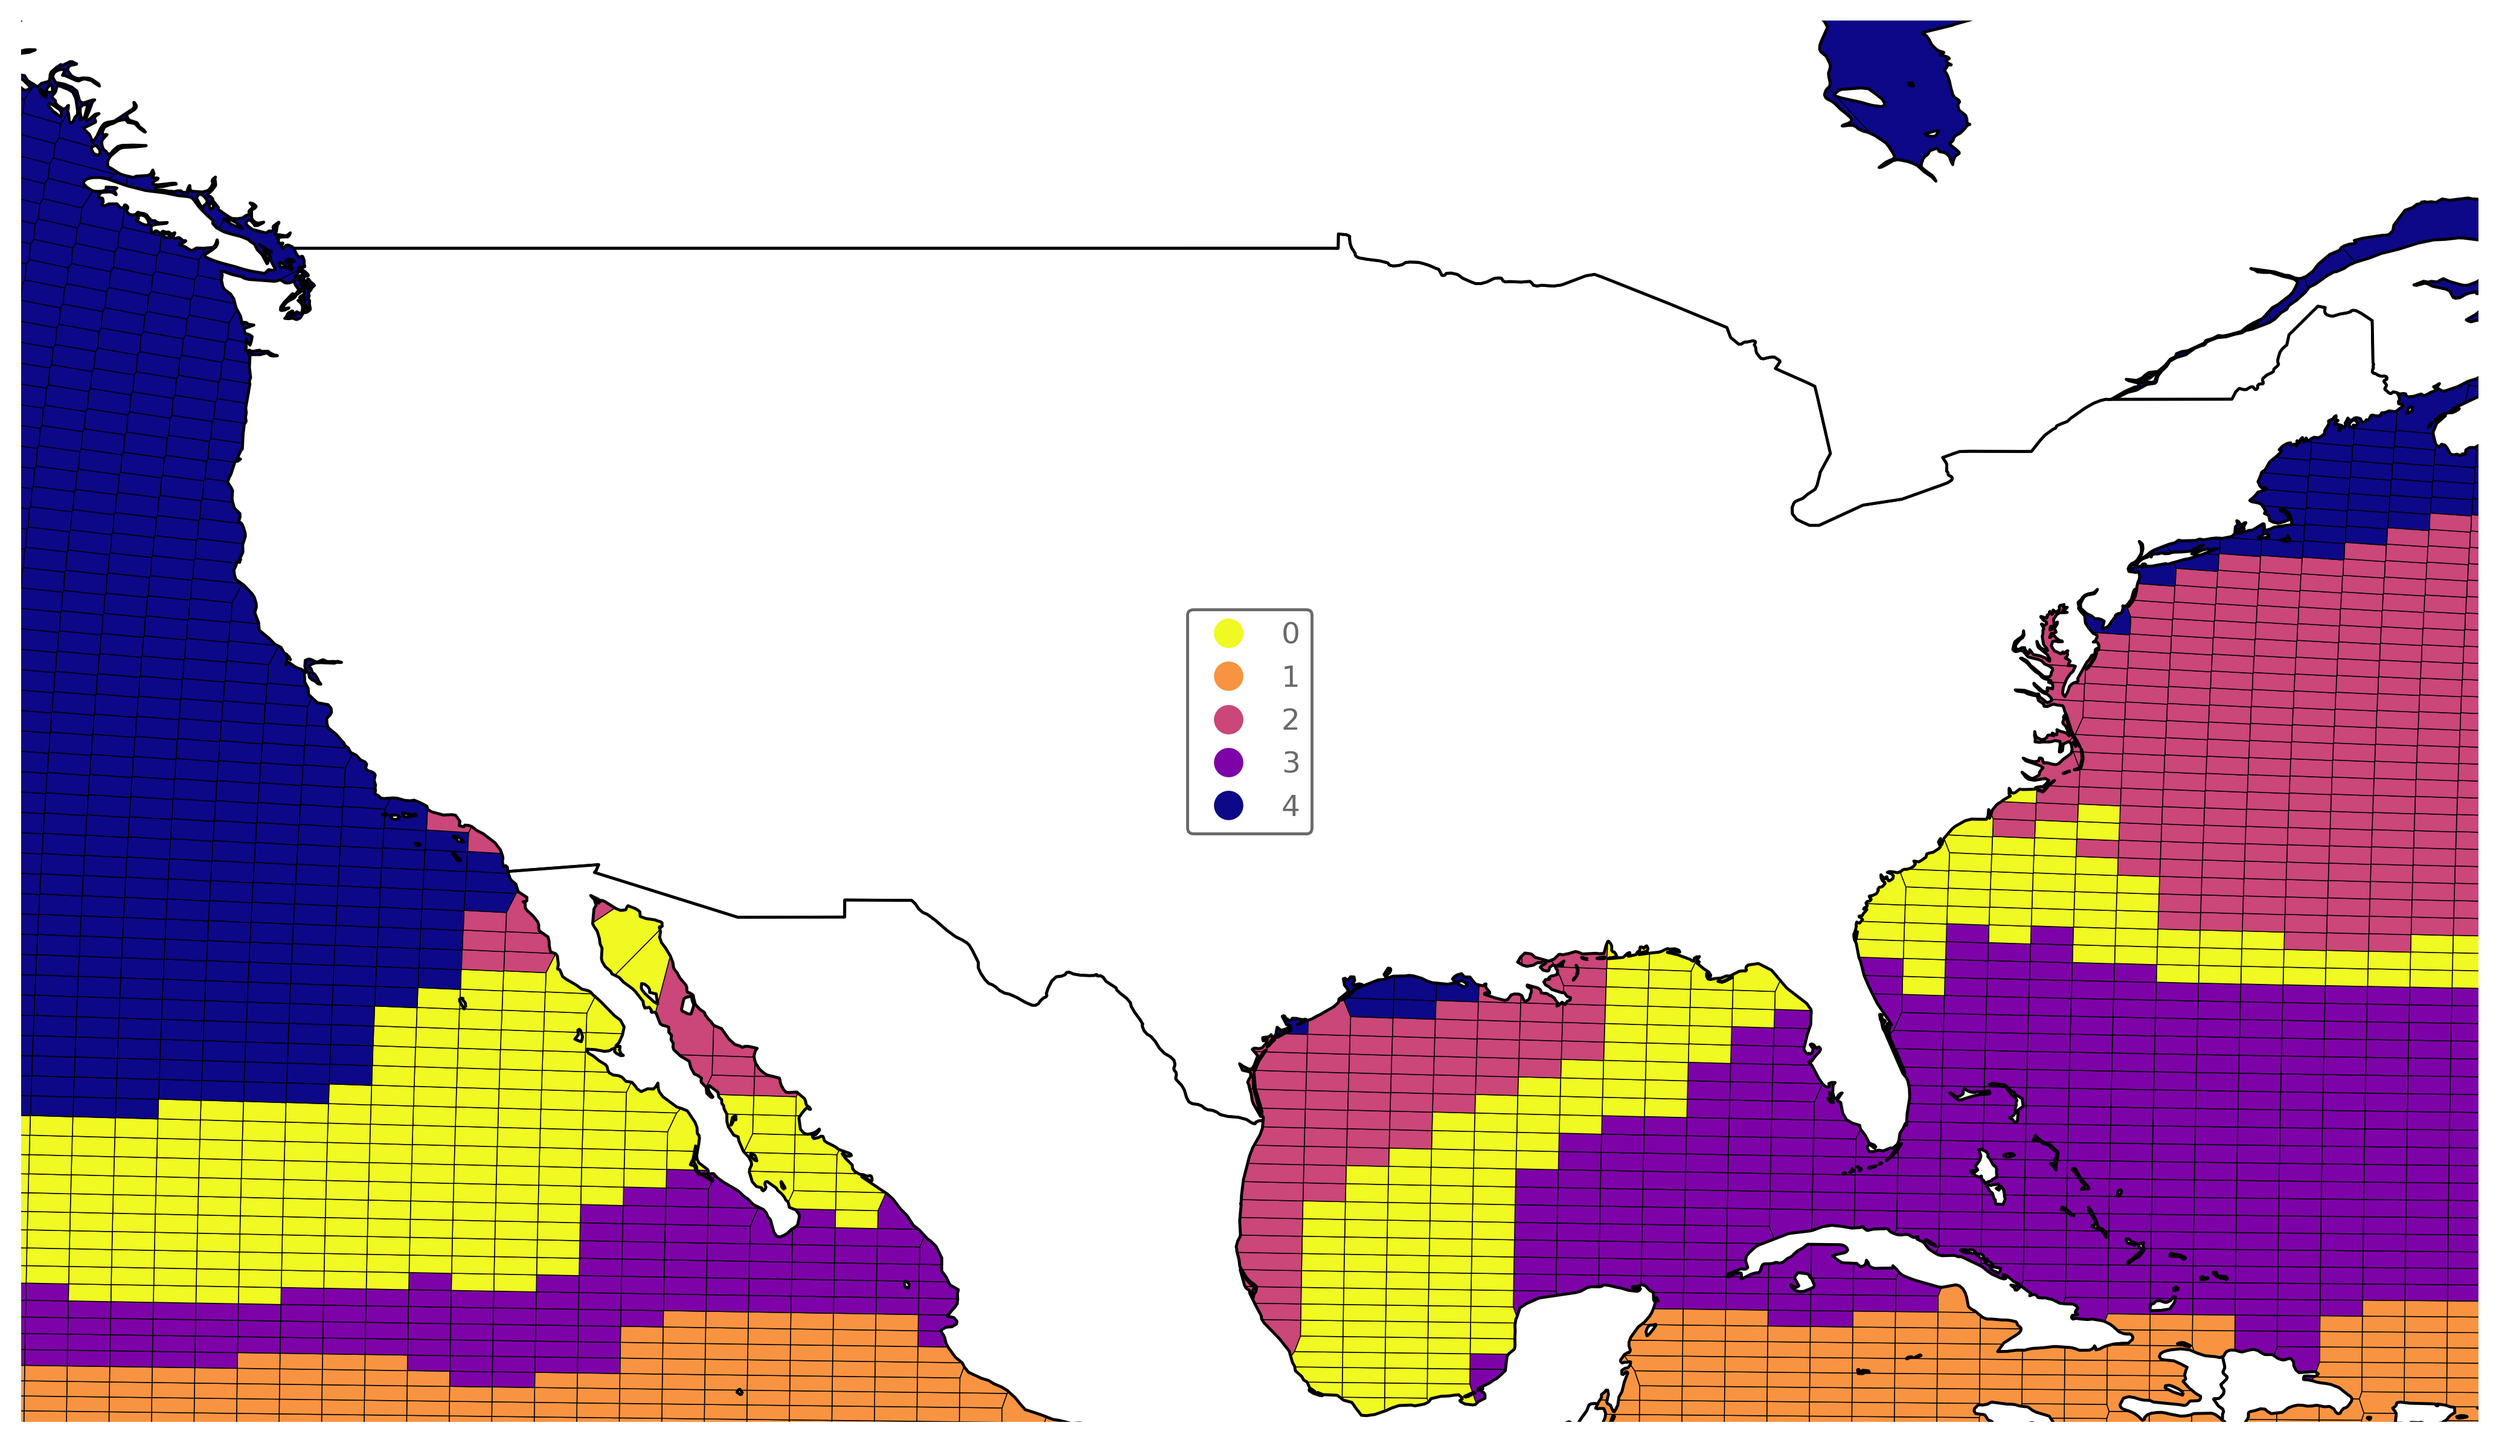
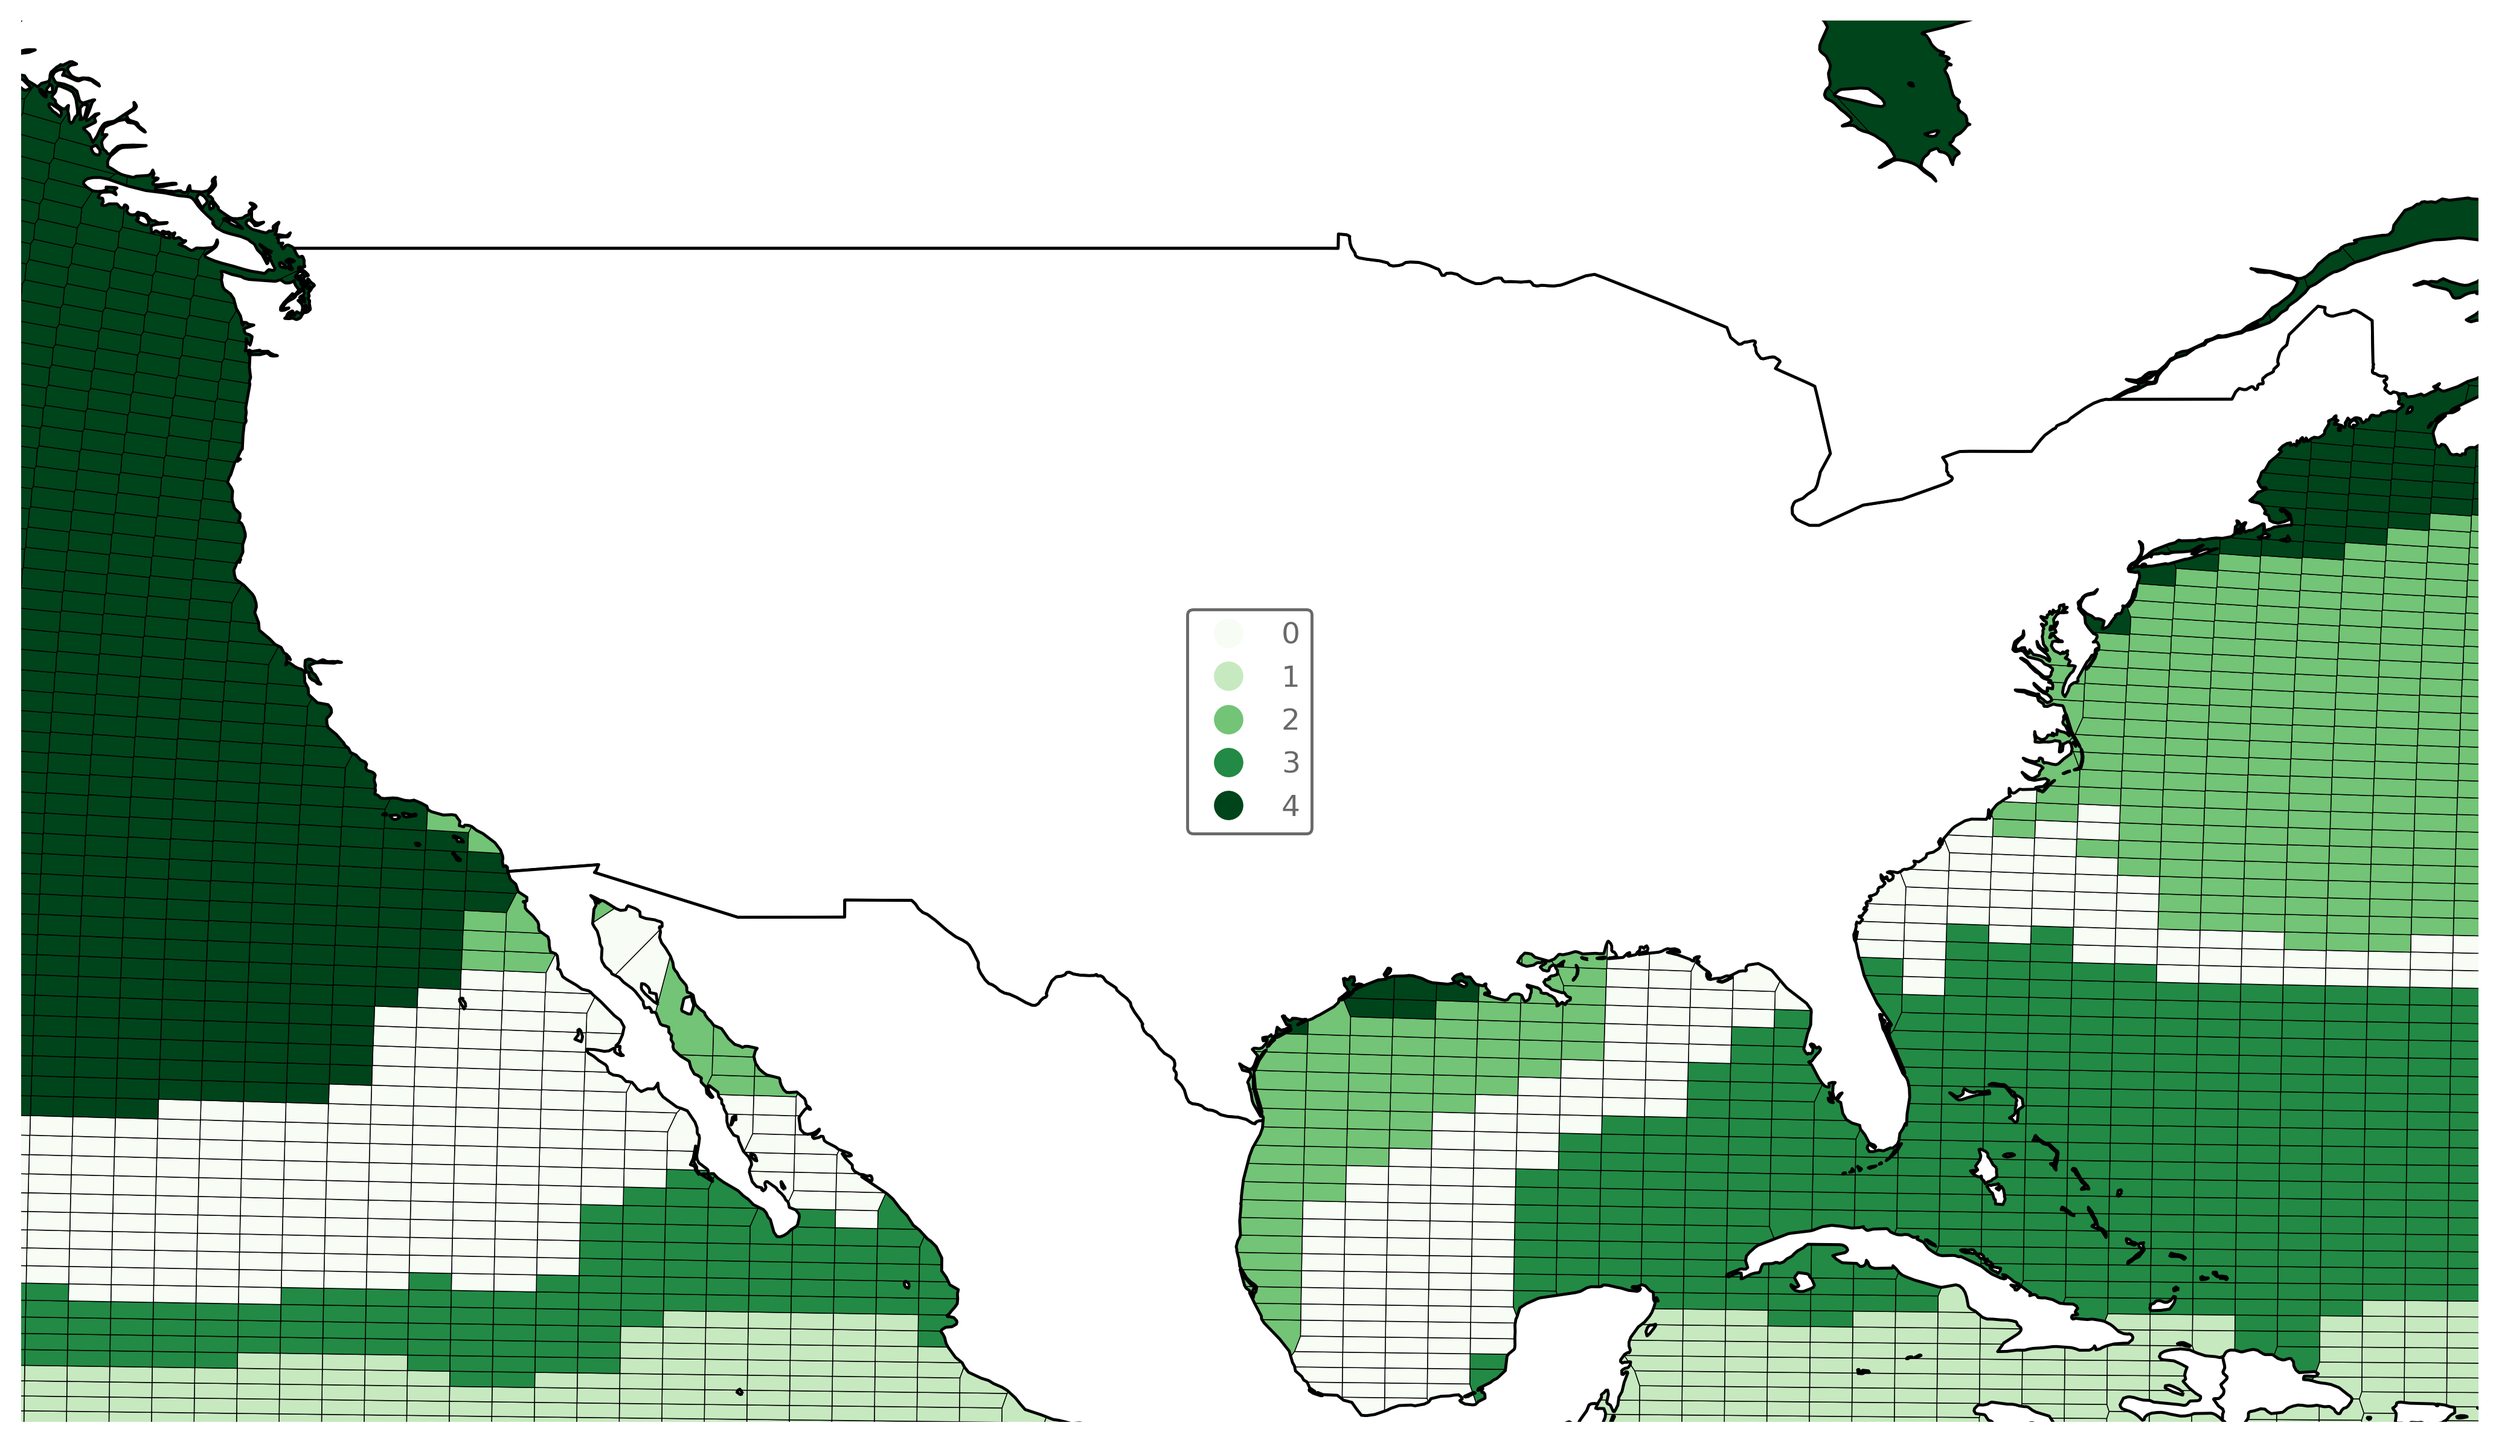
Finished first version of qline plot

diff --git a/src/plotting/plotter_grid.py b/src/plotting/plotter_grid.py
@@ -8,6 +8,7 @@ import geopandas as gpd
 import matplotlib.pyplot as plt
 import geoplot as gplt
 from shapely.geometry import Point
+import numpy as np
 plt.style.use("https://raw.githubusercontent.com/allfed/ALLFED-matplotlib-style-sheet/main/ALLFED.mplstyle")
 
 
@@ -55,7 +56,7 @@ def cluster_spatial_voronoi(growth_df, global_or_US):
     # # Make sure that each entry has a value
     # num_nan = growth_df.isna().sum().sum()
     # assert num_nan == 0, "The dataframe has {} nan".format(num_nan)
-    ax = gplt.voronoi(growth_df.dropna(), hue="cluster", legend=True, linewidth=0.3)
+    ax = gplt.voronoi(growth_df.dropna(), hue="cluster", legend=True, linewidth=0.3, cmap="Greens")
     fig = plt.gcf()
     fig.set_size_inches(15, 15)
     global_map.plot(ax=ax, color="white", edgecolor="black")
@@ -145,13 +146,12 @@ def cluster_timeseries_all_parameters_q_lines(parameters, global_or_US):
         for cluster, cluster_df in parameter_df.groupby("cluster"):
             del cluster_df["cluster"]
             ax = axes[i, j]
-            cluster_df.transpose().plot(ax=ax, color="black", legend=False, alpha=0.03)
-            # Plot it two times, so the line has a edgecolor
-            cluster_df.median().transpose().plot(
-                ax=ax, color="black", legend=False, linewidth=5, alpha=0.9)
-            cluster_df.median().transpose().plot(
-                ax=ax, color="green", legend=False, linewidth=4, alpha=0.9)
 
+            for q in np.arange(0.1, 0.6, 0.1):
+                q_up = cluster_df.quantile(1 - q)
+                q_down = cluster_df.quantile(q)
+                ax.fill_between(x=q_up.index.astype(float), y1=q_down, y2=q_up, color="#3A913F", alpha=q * 2)
+            ax.plot(cluster_df.median(), color="black")
             ax.set_ylabel(parameter)
             ax.set_xlabel("Months since war")
             if i == 0:
@@ -166,7 +166,6 @@ def cluster_timeseries_all_parameters_q_lines(parameters, global_or_US):
     )
 
     plt.close()
-
 
 
 if __name__ == "__main__":
